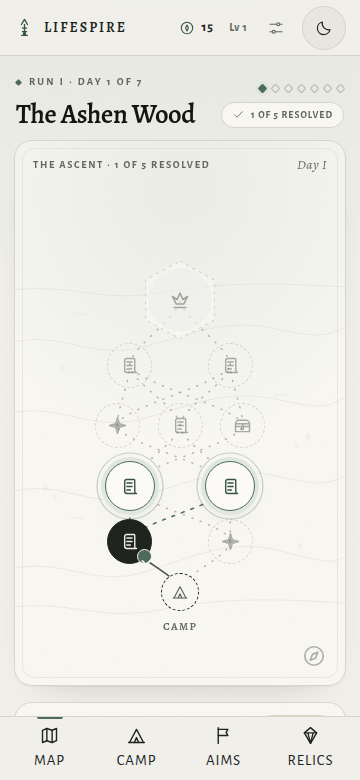
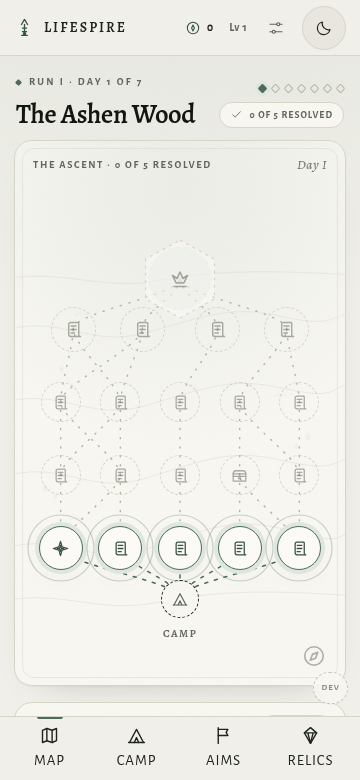
docs(map): document the new map rules and refresh the captures
SPEC, ARCHITECTURE and the README now describe 2 to 5 nodes per layer,
the neighbour-only connections and the lane geometry. The README
captures show the new five lane map in both themes and on mobile.

diff --git a/docs/ARCHITECTURE.md b/docs/ARCHITECTURE.md
@@ -170,7 +170,7 @@ export interface GameMap {
   seed: string
   dayIndex: number
   generatorVersion: number
-  layers: MapNode[][]      // 4 capas de 2..3 nodos
+  layers: MapNode[][]      // 4 capas de 2..5 nodos
   boss: MapNode
   currentNodeId: string | null
   createdAt: string
@@ -354,15 +354,32 @@ generateMap(input: {
 ```
 
 - Semilla: `${runSeed}:day:${dayIndex}:g${generatorVersion}`.
-- 4 capas de decisión con 2–3 nodos + boss. Capa 0 disponible desde el start.
+- 4 capas de decisión con 2–5 nodos + boss. Capa 0 disponible desde el start.
+- Ancho de capa: la primera capa se sortea entre 2 y `min(5, pool + 1)` y cada
+  capa siguiente deriva ±1 nodo de la anterior. Derivar poco mantiene la regla
+  de vecinos (siempre hay cobertura) y evita capas que se abren o se cierran de
+  golpe. El techo `pool + 1` reserva un hueco para el rest/treasure, de modo que
+  los nodos con tarea nunca repiten rutina dentro de la misma capa.
 - Cada capa: al menos 1 task, como máximo 1 rest **o** treasure, y 1–2 elites en
-  todo el mapa.
+  todo el mapa. Una capa más ancha que el pool **obliga** a llevar rest o
+  treasure.
 - Task/elite/boss requieren `TaskSnapshot`. Rest/treasure tienen `task: null`.
 - Sin tareas repetidas dentro de una capa. Entre capas se evita repetir mientras
   el pool lo permita; con pools pequeños se permite repetir entre capas.
 - Conexiones: cada nodo de capa 0–2 conecta a 1–2 nodos de la capa siguiente;
   cada nodo de capa 3 conecta al boss. Todo nodo de la capa siguiente tiene al
   menos una entrada; ningún nodo queda huérfano. El boss no tiene salida.
+- Conexiones de vecindario: un nodo solo alcanza su propio carril y los dos
+  carriles contiguos (`|i − j| ≤ 1` por índice de capa). Ningún camino salta de
+  un extremo al otro: el mapa se lee como carriles verticales con bifurcaciones
+  locales. El primer pase ancla cada nodo a su carril, el segundo cubre la
+  capa siguiente y el tercero ofrece una segunda rama (45 %) entre vecinos.
+- Geometría (`ui/lib/mapLayout.ts`): viewBox de 560×700, sin scroll vertical. Las
+  capas se reparten en Y 570/440/310/180, con el camp en 660 y el boss en 90
+  (≈130 px entre capas). Los carriles horizontales según el ancho de la capa son
+  2 → 0.22/0.78, 3 → 0.26/0.5/0.74, 4 → 0.16/0.38/0.62/0.84 y
+  5 → 0.12/0.31/0.5/0.69/0.88. Las capas de 5 nodos usan un medallón más
+  pequeño (`node--wide`) para que los carriles no se toquen a 360 px.
 - Boss: se prefiere una tarea de un goal con progreso pendiente y esfuerzo alto;
   desempate determinista por seed.
 - Si el pool tiene <4 tareas activas, el generador debe seguir produciendo un mapa
@@ -587,7 +604,8 @@ no persiste ni las metas ni la run y devuelve `false` (el mensaje queda en
   el dock flotante del prototipo: así «Next step», «Weekly aims» y la leyenda
   siguen visibles a 360 px sin tapar el mapa ni provocar scroll horizontal. Las
   etiquetas de nodos disponibles usan `data-label-side` para colocarse a
-  izquierda, derecha o debajo según el ancho de la capa. La etiqueta muestra solo
+  izquierda, derecha o debajo según el ancho de la capa (las capas de 4–5 nodos
+  las llevan siempre debajo). La etiqueta muestra solo
   el nombre de la tarea y permanece oculta hasta `:hover` o `:focus-visible`; en
   punteros sin hover, el primer toque la revela y el segundo selecciona el nodo.
 - Nodos del mapa: SVG decorativo + botones HTML superpuestos (o controles

diff --git a/SPEC.md b/SPEC.md
@@ -39,7 +39,7 @@ Concrete criteria:
 - Onboarding with two options: demo data or create your own goals/routines.
 - 1–3 goals, each with its routines/tasks and a weekly objective.
 - A 7-day run with one map per day.
-- Maps with 4 decision layers + a final boss, with 2–3 nodes per layer.
+- Maps with 4 decision layers + a final boss, with 2–5 nodes per layer.
 - Node types: task, elite, rest, treasure, and boss.
 - Path selection, completing or skipping nodes, instant rewards.
 - XP, simple leveling, gold, and collectible loot with no gameplay effects.
@@ -90,7 +90,7 @@ Core rules:
 The map is displayed bottom-up, as in *Slay the Spire*:
 
 - An automatic start node.
-- 4 decision layers with 2–3 nodes each.
+- 4 decision layers with 2–5 nodes each.
 - A single boss node at the end.
 - In total, 5 nodes are resolved per day: 4 choices + boss.
 
@@ -99,6 +99,8 @@ Generation rules:
 - Every node must be reachable from the start and must have a path to the boss.
 - Each layer offers at least 2 options.
 - Each node connects to 1–2 nodes in the next layer; multiple paths are allowed to converge.
+- A node only connects to the nodes on the same lane and the two adjacent lanes, so no path jumps across the map.
+- The width of a layer drifts by at most one node from the previous layer.
 - Each layer includes at least one task node.
 - There is at most one rest or treasure node per layer.
 - 1–2 elite nodes appear per map.
@@ -196,7 +198,7 @@ Persistence: a single versioned JSON document in `localStorage`, with export/imp
 The demo is considered complete when it can be run without failures:
 
 1. Open the app from scratch, complete onboarding with demo data, and start a run.
-2. See a map with 4 layers + boss, 2–3 nodes per layer, at least two possible paths, and all nodes reachable.
+2. See a map with 4 layers + boss, 2–5 nodes per layer, at least two possible paths, and all nodes reachable.
 3. Choose a task, complete it, and see XP, gold, and weekly progress update.
 4. Reload the page and confirm that the map, path, and rewards are preserved.
 5. Skip a node and confirm that it advances without a reward.

diff --git a/README.md b/README.md
@@ -59,7 +59,7 @@ pnpm preview    # serve the build (test PWA / offline)
 ## How it works
 
 1. **Onboarding** — pick demo data or create 1–3 goals with their routines.
-2. **Each day** — open the day's map (4 decision layers + a boss, 2–3 nodes per
+2. **Each day** — open the day's map (4 decision layers + a boss, 2–5 nodes per
    layer), pick a node, complete the real-world action, mark it done.
 3. **Rewards** — XP, gold, and loot are granted instantly. Tasks also add
    progress to their goal's weekly objective.
